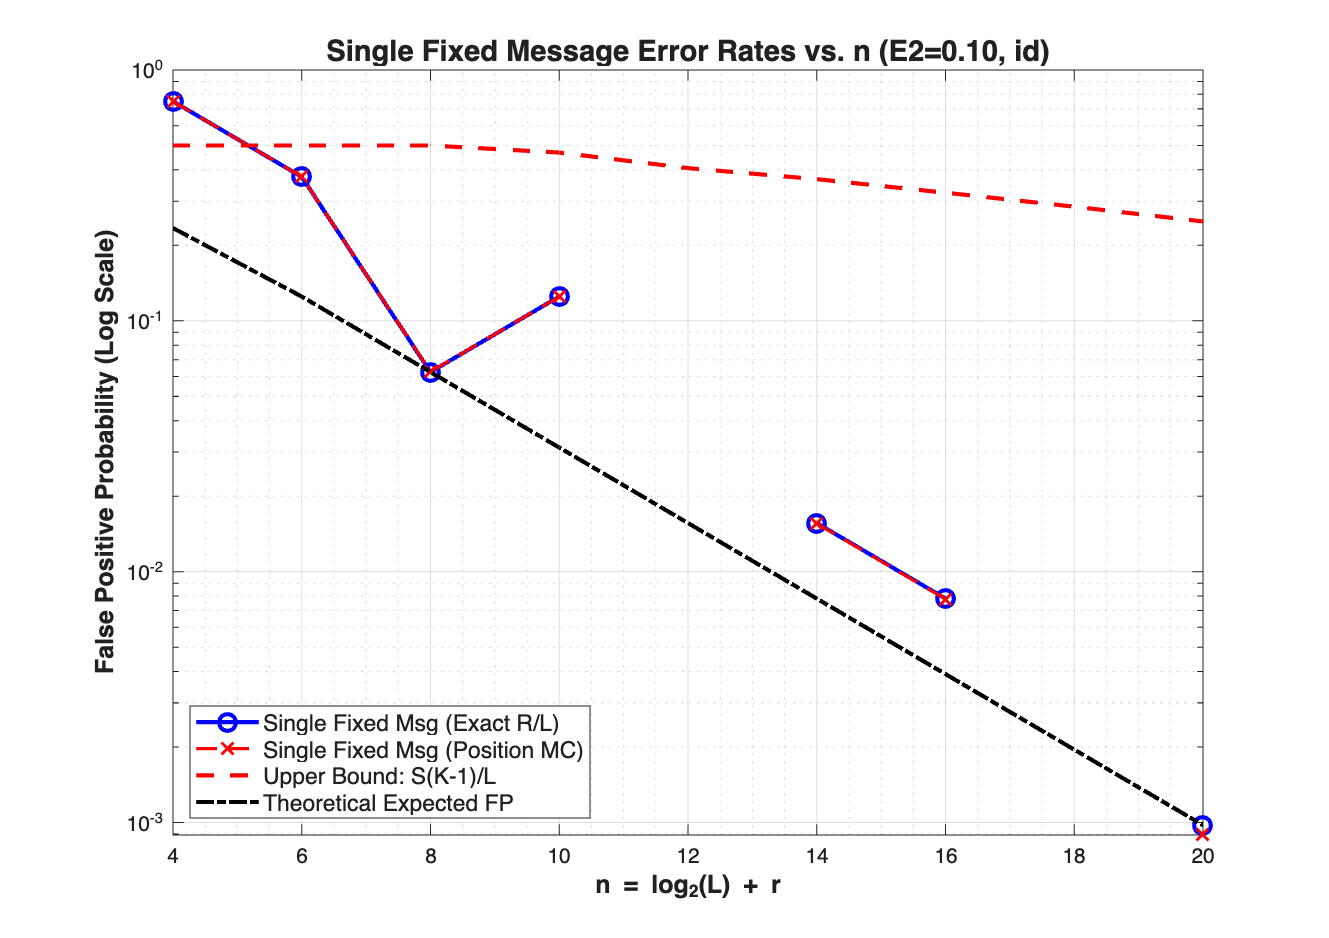
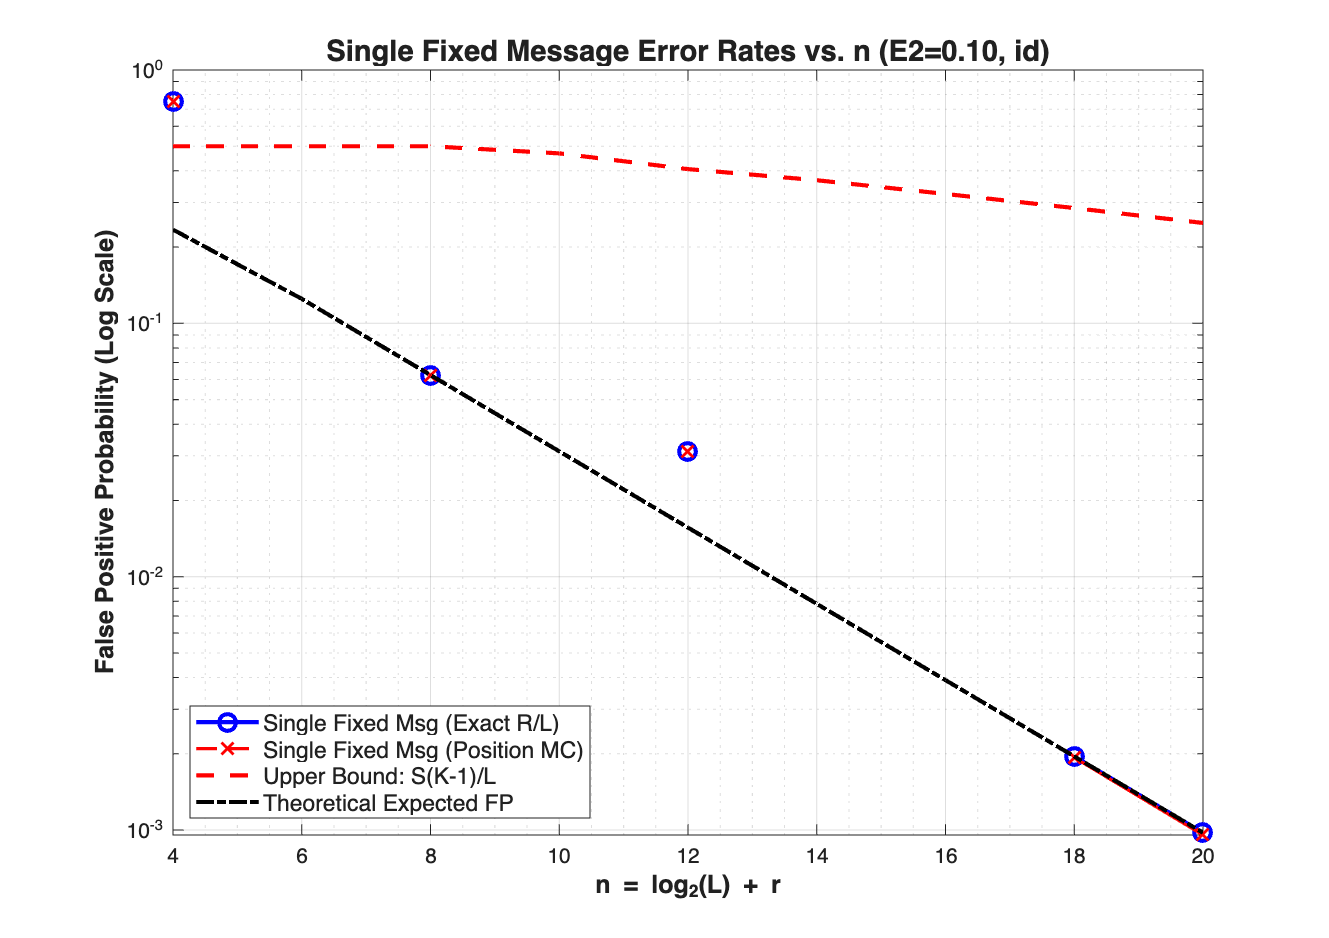
0803, mbp, fix evaluation points problem during encoding

diff --git a/run_monte_carlo_fixed_msg_vec.m b/run_monte_carlo_fixed_msg_vec.m
@@ -15,7 +15,8 @@ function stat = run_monte_carlo_fixed_msg_vec(fixed_symbols, valid_symbols_uint3
     %   stat - struct with fields:
     %          fp_prob_exact: Exact FP probability R/L computed deterministically over all L positions
     %          fp_prob_mc: Empirical FP probability from Monte Carlo position sampling
-    %          R: Exact number of positions resulting in false positive (0 <= R <= K-1)
+    %          R: Exact number of positions resulting in false positive (0 <= R <= L).
+    %             For one distinct competing codeword, R <= K-1.
     %          L: Total evaluation positions L = 2^r
 
     S = size(valid_symbols_uint32, 1);
@@ -26,25 +27,19 @@ function stat = run_monte_carlo_fixed_msg_vec(fixed_symbols, valid_symbols_uint3
 
     prim_poly = get_primpoly(r);
 
-    % 1. Pre-compute evaluation points alpha_powers(l) = alpha^l for l = 1..L
-    alpha = uint32(2);
-    alpha_powers = zeros(1, L, 'uint32');
-    curr = uint32(1);
-    for l = 1:L
-        curr = gf_mul_vec(curr, alpha, r, prim_poly);
-        alpha_powers(l) = curr;
-    end
+    % 1. Pre-compute L distinct extended-RS evaluation points
+    eval_points = rs_evaluation_points(r, L, prim_poly);
 
-    % 2. Compute transmitted symbol Y_fixed(l) = C_{W_fixed}(alpha^l) for ALL L positions in vector form
+    % 2. Compute the transmitted symbol at all L evaluation points
     y_fixed_all = repmat(fixed_symbols(K), 1, L);
     for k = (K-1):-1:1
-        y_fixed_all = bitxor(gf_mul_vec(y_fixed_all, alpha_powers, r, prim_poly), fixed_symbols(k));
+        y_fixed_all = bitxor(gf_mul_vec(y_fixed_all, eval_points, r, prim_poly), fixed_symbols(k));
     end
 
     % 3. Compute valid codeword symbols for all L positions: [S x L] uint32
     C_valid_all = repmat(valid_symbols_uint32(:, K), 1, L);
     for k = (K-1):-1:1
-        C_valid_all = bitxor(gf_mul_vec(C_valid_all, alpha_powers, r, prim_poly), valid_symbols_uint32(:, k));
+        C_valid_all = bitxor(gf_mul_vec(C_valid_all, eval_points, r, prim_poly), valid_symbols_uint32(:, k));
     end
 
     % 4. Deterministically evaluate FP status for each of the L positions

diff --git a/run_monte_carlo_vec.m b/run_monte_carlo_vec.m
@@ -13,14 +13,8 @@ function stat = run_monte_carlo_vec(valid_symbols_uint32, r, K, L, func_type, pa
 
     prim_poly = get_primpoly(r);
 
-    % 1. Pre-compute evaluation points alpha_powers(l) = alpha^l for l = 1..L
-    alpha = uint32(2);
-    alpha_powers = zeros(1, L, 'uint32');
-    curr = uint32(1);
-    for l = 1:L
-        curr = gf_mul_vec(curr, alpha, r, prim_poly);
-        alpha_powers(l) = curr;
-    end
+    % 1. Pre-compute L distinct extended-RS evaluation points
+    eval_points = rs_evaluation_points(r, L, prim_poly);
 
     % 2. Convert target to symbol format once if func_type is 'id'
     if strcmpi(func_type, 'id')
@@ -64,7 +58,7 @@ function stat = run_monte_carlo_vec(valid_symbols_uint32, r, K, L, func_type, pa
 
         % Choose uniform indices U from {1...L} for each trial in the batch
         U = randi([1, L], curr_batch_size, 1);
-        x_val = alpha_powers(U)'; % [curr_batch_size x 1] evaluation points
+        x_val = eval_points(U)'; % [curr_batch_size x 1] evaluation points
 
         % Compute received symbol Y_i in GF(2^r) using Horner's method
         received_symbols_x = symbols(:, K);
@@ -75,7 +69,7 @@ function stat = run_monte_carlo_vec(valid_symbols_uint32, r, K, L, func_type, pa
         % Group sampled channel positions to evaluate valid symbols ONCE per unique position
         [u_unique, ~, u_map] = unique(U);
         num_u = length(u_unique);
-        x_u_pts = alpha_powers(u_unique); % [1 x num_u] evaluation points
+        x_u_pts = eval_points(u_unique); % [1 x num_u] evaluation points
 
         % Compute valid codeword symbols for the unique evaluation points: [S x num_u]
         C_valid_u = repmat(valid_symbols_uint32(:, K), 1, num_u);

diff --git a/test_rs_evaluation_points.m b/test_rs_evaluation_points.m
@@ -1,0 +1,41 @@
+% Regression tests for distinct extended-RS evaluation points.
+clear;
+
+r = 2;
+K = 3;
+L = 2^r;
+prim_poly = get_primpoly(r);
+
+eval_points = rs_evaluation_points(r, L, prim_poly);
+assert(isequal(eval_points, uint32([0, 1, 2, 3])));
+assert(numel(unique(eval_points)) == L);
+
+% Messages 120 and 302 over GF(4), represented as big-endian bit blocks.
+messages = [0, 1, 1, 0, 0, 0; ...
+            1, 1, 0, 0, 1, 0];
+codewords = rs_encode_polynomial_vec(messages, r, K, L);
+assert(isequal(codewords(1, :), uint32([1, 3, 2, 0])));
+assert(isequal(codewords(2, :), uint32([3, 1, 2, 0])));
+assert(sum(codewords(1, :) == codewords(2, :)) == K - 1);
+
+% The fixed-message Monte Carlo path must use the same corrected encoding.
+fixed_symbols = uint32([1, 2, 0]);
+valid_symbols = uint32([3, 0, 2]);
+stat = run_monte_carlo_fixed_msg_vec( ...
+    fixed_symbols, valid_symbols, r, K, L, 'id', struct(), 1000);
+assert(stat.R == K - 1);
+assert(stat.fp_prob_exact == (K - 1) / L);
+
+% Exhaustively verify the pairwise RS agreement bound over all GF(4)^3 messages.
+all_messages = zeros(2^(r*K), r*K);
+for msg = 0:(2^(r*K) - 1)
+    all_messages(msg + 1, :) = bitget(uint32(msg), (r*K):-1:1);
+end
+all_codewords = rs_encode_polynomial_vec(all_messages, r, K, L);
+
+for i = 1:(size(all_codewords, 1) - 1)
+    agreements = sum(all_codewords((i + 1):end, :) == all_codewords(i, :), 2);
+    assert(all(agreements <= K - 1));
+end
+
+fprintf('RS evaluation-point regression tests passed.\n');

diff --git a/build_decoding_regions_vec.m b/build_decoding_regions_vec.m
@@ -122,13 +122,7 @@ function [S, D_ratio, valid_symbols_uint32] = build_decoding_regions_vec(r, K, L
         D_ratio(:) = 1 / field_size;
     else
         prim_poly = get_primpoly(r);
-        alpha = uint32(2);
-        alpha_powers = zeros(1, L, 'uint32');
-        curr = uint32(1);
-        for l = 1:L
-            curr = gf_mul_vec(curr, alpha, r, prim_poly);
-            alpha_powers(l) = curr;
-        end
+        eval_points = rs_evaluation_points(r, L, prim_poly);
 
         chunk_size = 2000;
         for c_start = 1:chunk_size:L
@@ -136,7 +130,7 @@ function [S, D_ratio, valid_symbols_uint32] = build_decoding_regions_vec(r, K, L
             cols = c_start:c_end;
             num_cols = length(cols);
 
-            x_chunk_pts = alpha_powers(cols); % [1 x num_cols] evaluation points for this chunk
+            x_chunk_pts = eval_points(cols); % [1 x num_cols] evaluation points for this chunk
             c_chunk = repmat(valid_symbols_uint32(:, K), 1, num_cols);
             for k = (K-1):-1:1
                 c_chunk = bitxor(gf_mul_vec(c_chunk, x_chunk_pts, r, prim_poly), valid_symbols_uint32(:, k));

diff --git a/rs_encode_polynomial_vec.m b/rs_encode_polynomial_vec.m
@@ -23,18 +23,13 @@ function c = rs_encode_polynomial_vec(b, r, K, L)
         symbols(:, k) = uint32(sum(b(:, idx) .* weights, 2));
     end
     
-    % 2. Compute evaluation points alpha_powers(l) = alpha^l in GF(2^r) for l = 1..L
-    alpha = uint32(2);
-    alpha_powers = zeros(1, L, 'uint32');
-    curr = uint32(1);
-    for l = 1:L
-        curr = gf_mul_vec(curr, alpha, r, prim_poly);
-        alpha_powers(l) = curr;
-    end
+    % 2. Compute L distinct extended-RS evaluation points:
+    %    0, 1, alpha, ..., alpha^(L-2)
+    eval_points = rs_evaluation_points(r, L, prim_poly);
     
     % 3. Evaluate polynomial using Horner's method: c = ( ... (s_K * x + s_{K-1}) * x ... + s_1)
     c = repmat(symbols(:, K), 1, L);
     for k = (K-1):-1:1
-        c = bitxor(gf_mul_vec(c, alpha_powers, r, prim_poly), symbols(:, k));
+        c = bitxor(gf_mul_vec(c, eval_points, r, prim_poly), symbols(:, k));
     end
 end

diff --git a/rs_evaluation_points.m b/rs_evaluation_points.m
@@ -1,0 +1,31 @@
+function eval_points = rs_evaluation_points(r, L, prim_poly)
+    % rs_evaluation_points: Return L distinct points in GF(2^r).
+    %
+    % The extended RS ordering is:
+    %   0, 1, alpha, alpha^2, ..., alpha^(L-2),
+    % where alpha is a primitive element.  Including zero permits the
+    % maximum length L = 2^r without repeating a nonzero field element.
+
+    field_size = 2^r;
+    if L < 1 || L ~= floor(L) || L > field_size
+        error('L must be an integer in the range 1 <= L <= 2^r.');
+    end
+
+    eval_points = zeros(1, L, 'uint32');
+    if L == 1
+        return;
+    end
+
+    alpha = uint32(2);
+    if r == 1
+        alpha = uint32(1);
+    end
+
+    curr = uint32(1);
+    for l = 2:L
+        eval_points(l) = curr;
+        if l < L
+            curr = gf_mul_vec(curr, alpha, r, prim_poly);
+        end
+    end
+end

diff --git a/main_plot_error_rates_fixed_msg.m b/main_plot_error_rates_fixed_msg.m
@@ -20,7 +20,7 @@ end
 
 % --- 1. Simulation Parameters ---
 E2 = 0.1;             % Code parameter
-n_list_sim = 24:2:44;  % List of n values
+n_list_sim = 4:2:20;  % List of n values
 num_trials_pos = 1e6; % Position Monte Carlo trials for the fixed message
 
 % 'id (Constant weight S=1)' 
@@ -30,7 +30,7 @@ num_trials_pos = 1e6; % Position Monte Carlo trials for the fixed message
 % 'and-subset (bits in S_k == 1)'    
 % 'rank (int(b) <= rank)'      
 
-func_type = 'exact-threshold';  % Choose the boolean function type
+func_type = 'id';  % Choose the boolean function type
 params.beta = 2;
 params.t = 3;                         % Fallback for 'bit-query'
 params.S_k = [1, 2];                  % Fallback for 'and-subset'
